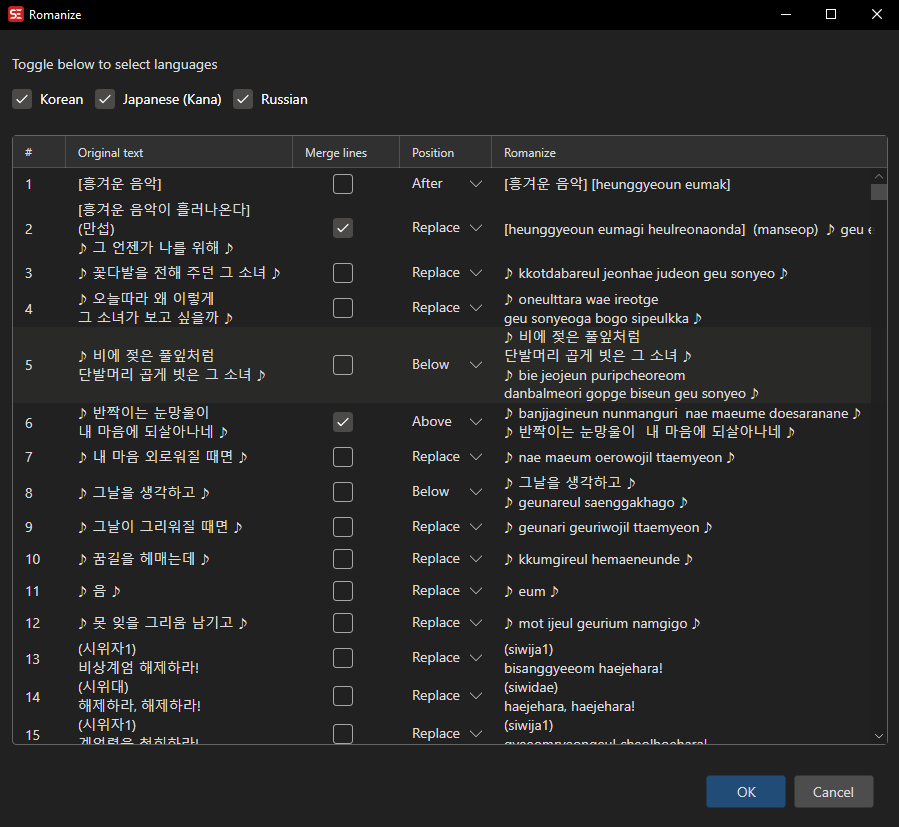
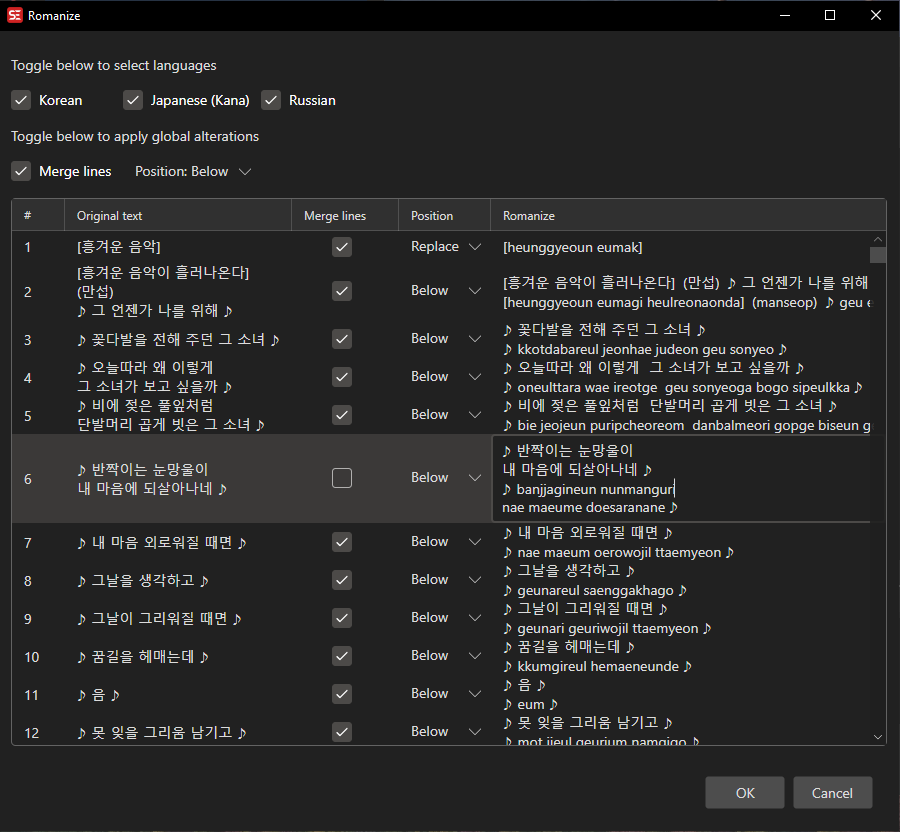
[feat]. Global options added
Added
- Merge lines heckbox for entire subtitle file
- Position Dropdown for entire subtitle file

diff --git a/src/ui/Features/Tools/Romanize/RomanizeViewModel.cs b/src/ui/Features/Tools/Romanize/RomanizeViewModel.cs
@@ -18,8 +18,9 @@ namespace Nikse.SubtitleEdit.Features.Tools.Romanize;
 
 public partial class RomanizeViewModel : ObservableObject
 {
+    [ObservableProperty] private bool? _subtitleItemsMerged;
+    [ObservableProperty] private RomanizedLinePositions? _subtitleItemsRomanizedLinePosition;
     [ObservableProperty] private ObservableCollection<RomanizeSubtitleLineItem> _subtitleItems;
-    [ObservableProperty] private RomanizeSubtitleLineItem? _selectedSubtitleItem;
     [ObservableProperty] private bool _romanizeKorean = true;
     [ObservableProperty] private bool _romanizeJapanese = true;
     [ObservableProperty] private bool _romanizeRussian = true;
@@ -80,24 +81,26 @@ public partial class RomanizeViewModel : ObservableObject
     [RelayCommand]
     private void RomanizeAll()
     {
-        List<RomanizeSubtitleLineItem> subtitles = [.. Subtitles.Select(_ =>
+        List<RomanizeSubtitleLineItem> subtitles = [.. Subtitles.Select((subtitle, index) =>
         {
-            string text = IRomanizer.RomanizeText(_.Text, new CultureInfo?[]
+            var previous = SubtitleItems.ElementAtOrDefault(index);
+            var item = new RomanizeSubtitleLineItem
             {
-                RomanizeJapanese ? JapaneseRomanizer.Culture : null,
-                RomanizeKorean ? KoreanRomanizer.Culture : null,
-                RomanizeRussian ? RussianRomanizer.Culture : null,
+                Merged = SubtitleItemsMerged ?? previous?.Merged ?? default,
+                RomanizedLinePosition = SubtitleItemsRomanizedLinePosition ?? previous?.RomanizedLinePosition ?? default,
 
-            }.OfType<CultureInfo>());
-
-            return new RomanizeSubtitleLineItem
-            {
-                LineNumber = _.Number,
-                Text = text,
-                TextRomanized = text,
-                TextOriginal = _.Text,
+                LineNumber = subtitle.Number,
+                TextOriginal = subtitle.Text,
+                TextRomanized = TextRomanize(subtitle.Text),
             };
+
+            item.Text = previous is null ? item.TextRomanized : TextAlter(item.TextOriginal, item.TextRomanized, item.Merged, item.RomanizedLinePosition);
+
+            return item;
         })];
+
+        SubtitleItemsMerged = null;
+        SubtitleItemsRomanizedLinePosition = null;
 
         Dispatcher.UIThread.Post(() =>
         {
@@ -116,31 +119,10 @@ public partial class RomanizeViewModel : ObservableObject
 
             LineNumber = Subtitles[index].Number,
             TextOriginal = Subtitles[index].Text,
-            TextRomanized = IRomanizer.RomanizeText(Subtitles[index].Text, new CultureInfo?[]
-            {
-                RomanizeJapanese ? JapaneseRomanizer.Culture : null,
-                RomanizeKorean ? KoreanRomanizer.Culture : null,
-                RomanizeRussian ? RussianRomanizer.Culture : null,
-
-            }.OfType<CultureInfo>()),
+            TextRomanized = TextRomanize(Subtitles[index].Text),
         };
 
-        string original = subtitle.TextOriginal, romanized = subtitle.TextRomanized;
-
-        if (subtitle.Merged)
-        {
-            original = subtitle.TextOriginal.Replace("\r", " ").Replace("\n", " ");
-            romanized = subtitle.TextRomanized.Replace("\r", " ").Replace("\n", " ");
-        }
-
-        subtitle.Text = subtitle.RomanizedLinePosition switch
-        {
-            RomanizedLinePositions.Above => string.Format("{0}\n{1}", romanized, original),
-            RomanizedLinePositions.Below => string.Format("{0}\n{1}", original, romanized),
-            RomanizedLinePositions.Before => string.Format("{0} {1}", romanized, original),
-            RomanizedLinePositions.After => string.Format("{0} {1}", original, romanized),
-            RomanizedLinePositions.Replace or _ => romanized
-        };
+        subtitle.Text = TextAlter(subtitle.TextOriginal, subtitle.TextRomanized, subtitle.Merged, subtitle.RomanizedLinePosition);
 
         Dispatcher.UIThread.Post(() =>
         {
@@ -167,5 +149,31 @@ public partial class RomanizeViewModel : ObservableObject
             e.Handled = true;
             UiUtil.ShowHelp("features/romanize");
         }
+    }
+    internal string TextRomanize(string text)
+    {
+        return IRomanizer.RomanizeText(text, new CultureInfo?[]
+        {
+            RomanizeJapanese ? JapaneseRomanizer.Culture : null,
+            RomanizeKorean ? KoreanRomanizer.Culture : null,
+            RomanizeRussian ? RussianRomanizer.Culture : null,
+
+        }.OfType<CultureInfo>());
+    }
+    internal string TextAlter(string original, string romanized, bool merge, RomanizedLinePositions position)
+    {
+        string
+            _original = merge is false ? original : original.Replace("\r", " ").Replace("\n", " "),
+            _romanized = merge is false ? romanized : romanized.Replace("\r", " ").Replace("\n", " ");
+
+        return position switch
+        {
+            RomanizedLinePositions.Above => string.Format("{0}\n{1}", _romanized, _original),
+            RomanizedLinePositions.Below => string.Format("{0}\n{1}", _original, _romanized),
+            RomanizedLinePositions.Before => string.Format("{0} {1}", _romanized, _original),
+            RomanizedLinePositions.After => string.Format("{0} {1}", _original, _romanized),
+            RomanizedLinePositions.Replace or _ => _romanized
+        };
+
     }
 }

diff --git a/src/ui/Features/Tools/Romanize/RomanizeWindow.cs b/src/ui/Features/Tools/Romanize/RomanizeWindow.cs
@@ -1,5 +1,6 @@
 using Avalonia;
 using Avalonia.Controls;
+using Avalonia.Controls.Primitives;
 using Avalonia.Controls.Templates;
 using Avalonia.Data;
 using Avalonia.Input;
@@ -73,6 +74,7 @@ public class RomanizeWindow : Window
                 new RowDefinition { Height = new GridLength(1, GridUnitType.Auto) },
                 new RowDefinition { Height = new GridLength(1, GridUnitType.Auto) },
                 new RowDefinition { Height = new GridLength(1, GridUnitType.Auto) },
+                new RowDefinition { Height = new GridLength(1, GridUnitType.Auto) },
             },
             ColumnDefinitions =
             {
@@ -108,10 +110,59 @@ public class RomanizeWindow : Window
             [!CheckBox.IsCheckedProperty] = new Binding(nameof(RomanizeViewModel.RomanizeRussian))
         };
 
+        var operationstitle = new TextBlock
+        {
+            Text = Se.Language.Tools.Romanize.OperationsTitle
+        };
+        var merge = new CheckBox
+        {
+            Content = Se.Language.General.MergeLines,
+            IsChecked = vm.SubtitleItemsMerged ?? default,
+            HorizontalContentAlignment = HorizontalAlignment.Left,
+            HorizontalAlignment = HorizontalAlignment.Center,
+            VerticalAlignment = VerticalAlignment.Center,
+
+            [!CheckBox.IsCheckedProperty] = new Binding(nameof(RomanizeViewModel.SubtitleItemsMerged))
+            {
+                Mode = BindingMode.OneWayToSource
+            },
+        };
+        var position = new ComboBox
+        {
+            Background = Brushes.Transparent,
+            BorderThickness = new Thickness(0),
+            Margin = new Thickness(0, 1, 0, 0),
+            SelectedValue = vm.SubtitleItemsRomanizedLinePosition ?? default,
+            HorizontalAlignment = HorizontalAlignment.Left,
+            VerticalAlignment = VerticalAlignment.Center,
+            ItemsSource = Enum.GetValues<RomanizedLinePositions>(),
+
+            [!ComboBox.SelectedItemProperty] = new Binding(nameof(RomanizeViewModel.SubtitleItemsRomanizedLinePosition))
+            {
+                Mode = BindingMode.OneWayToSource,
+            },
+
+            ItemTemplate = new FuncDataTemplate<RomanizedLinePositions>((item, nameScope) => new TextBlock
+            {
+                Text = item.ToString()
+            }),
+
+            SelectionBoxItemTemplate = new FuncDataTemplate<RomanizedLinePositions>((item, nameScope) => new TextBlock
+            {
+                Text = string.Format("{0}: {1}", Se.Language.General.Position, item)
+            }),
+        };
+
+        merge.Click += (obj, args) => vm.RomanizeAllCommand.Execute(null);
+        position.SelectionChanged += (obj, args) => vm.RomanizeAllCommand.Execute(null);
+
         grid.Add(toggletitle, 0, 0, 1, 3);
         grid.Add(korean, 1, 0);
         grid.Add(japanese, 1, 1);
         grid.Add(russian, 1, 2);
+        grid.Add(operationstitle, 2, 0, 1, 3);
+        grid.Add(merge, 3, 0);
+        grid.Add(position, 3, 1, 1, 2);
 
         return grid;
     }
@@ -164,8 +215,9 @@ public class RomanizeWindow : Window
                 },
                 new DataGridTemplateColumn
                 {
-                    Header = Se.Language.General.MergeLines,
                     Width = new DataGridLength(1, DataGridLengthUnitType.Auto),
+
+                    Header = Se.Language.General.MergeLines,
                     CellTheme = UiUtil.DataGridNoBorderCellTheme,
                     CellTemplate = new FuncDataTemplate<RomanizeSubtitleLineItem>((item, _) =>
                     {
@@ -188,8 +240,9 @@ public class RomanizeWindow : Window
                 },
                 new DataGridTemplateColumn
                 {
-                    Header = Se.Language.General.Position,
                     Width = new DataGridLength(1, DataGridLengthUnitType.Auto),
+                    
+                    Header = Se.Language.General.Position,
                     CellTheme = UiUtil.DataGridNoBorderCellTheme,
                     CellTemplate = new FuncDataTemplate<RomanizeSubtitleLineItem>((item, _) =>
                     {

diff --git a/src/ui/Logic/Config/Language/Tools/LanguageRomanise.cs b/src/ui/Logic/Config/Language/Tools/LanguageRomanise.cs
@@ -8,6 +8,7 @@ public class LanguageRomanize
     public string Korean { get; set; }
     public string Japanese { get; set; }
     public string Russian { get; set; }
+    public string OperationsTitle { get; set; }
 
     public LanguageRomanize()
     {
@@ -16,5 +17,6 @@ public class LanguageRomanize
         Korean = "Korean";
         Japanese = "Japanese (Kana)";
         Russian = "Russian";
+        OperationsTitle = "Toggle below to apply global alterations";
     }
 }

diff --git a/src/ui/Features/Main/MainViewModel.cs b/src/ui/Features/Main/MainViewModel.cs
@@ -5186,7 +5186,7 @@ public partial class MainViewModel :
             if (result.SubtitleItems[index].LineNumber != subtitle.Number)
                 throw new InvalidOperationException("This should not happen");
 
-            subtitle.Text = result.SubtitleItems[index].TextRomanized;
+            subtitle.Text = result.SubtitleItems[index].Text ?? result.SubtitleItems[index].TextRomanized ?? subtitle.Text;
 
             return subtitle;
         })]);

diff --git a/docs/features/romanize.md b/docs/features/romanize.md
@@ -16,6 +16,11 @@ Trqnform non-latin letter languages to their roman equivalent
 
 Subtitle Edit rewrites the text in in latin-letter equivalence. Timing, text, formatting, and comments are not changed.
 
+## Options
+
+- **Merge** — Merges source for single line result
+- **Position** — The position of the romanized text in reference to the original text
+
 ## Keyboard Shortcuts
 
 | Key | Action |
